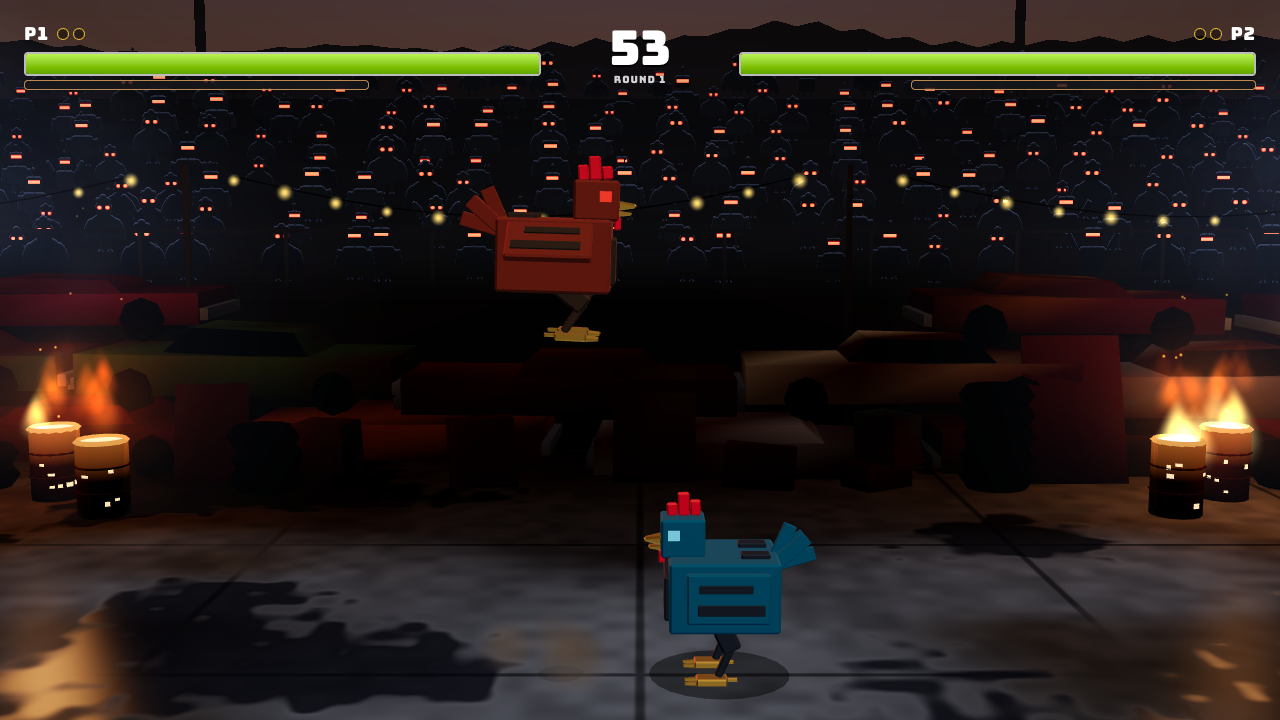
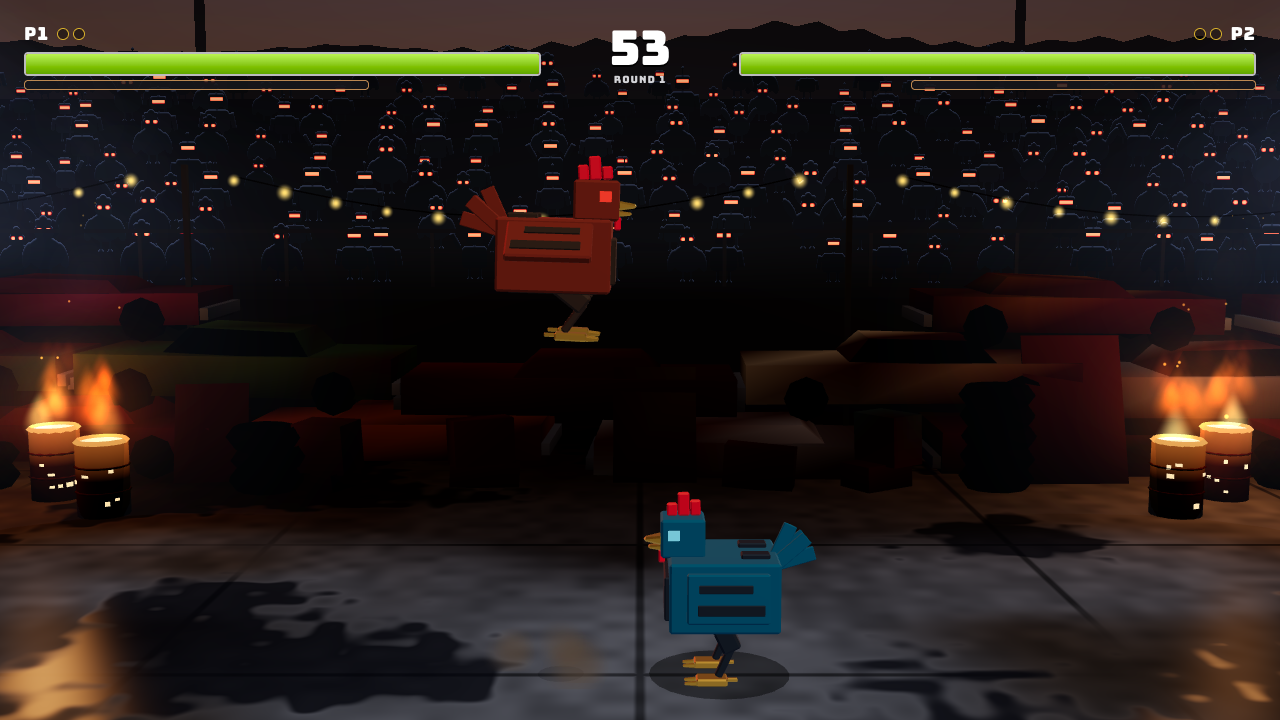
Phase 1: softer hit flash (emissive tint and flash glow); captures re-shot under Metal

Changed region(s): [[0.9062, 0.4889, 1.0, 0.6417], [0.0, 0.4889, 0.0938, 0.6111]]

diff --git a/apps/web/src/game/view/chicken/ChickenView.ts b/apps/web/src/game/view/chicken/ChickenView.ts
@@ -164,7 +164,7 @@ export class ChickenView {
     const f = this.flash > 0;
     for (const m of this.flashMats) {
       const base = m.userData.baseEmissive as MeshStandardMaterial["emissive"] | undefined;
-      if (f) m.emissive.setRGB(0.55, 0.38, 0.22);
+      if (f) m.emissive.setRGB(0.32, 0.2, 0.1);
       else if (base) m.emissive.copy(base);
     }
   }

diff --git a/apps/web/src/game/fx/Particles.ts b/apps/web/src/game/fx/Particles.ts
@@ -242,7 +242,7 @@ export class Particles {
           break;
         }
         case "flash":
-          pool.emit(t, x, y, 0.3, 0, 0, 0, 0.12, k, 1.5, r(1), 0);
+          pool.emit(t, x, y, 0.3, 0, 0, 0, 0.1, k, 1.05, r(1), 0);
           break;
         case "screw": {
           const sp = 3 + r(1) * 4;
